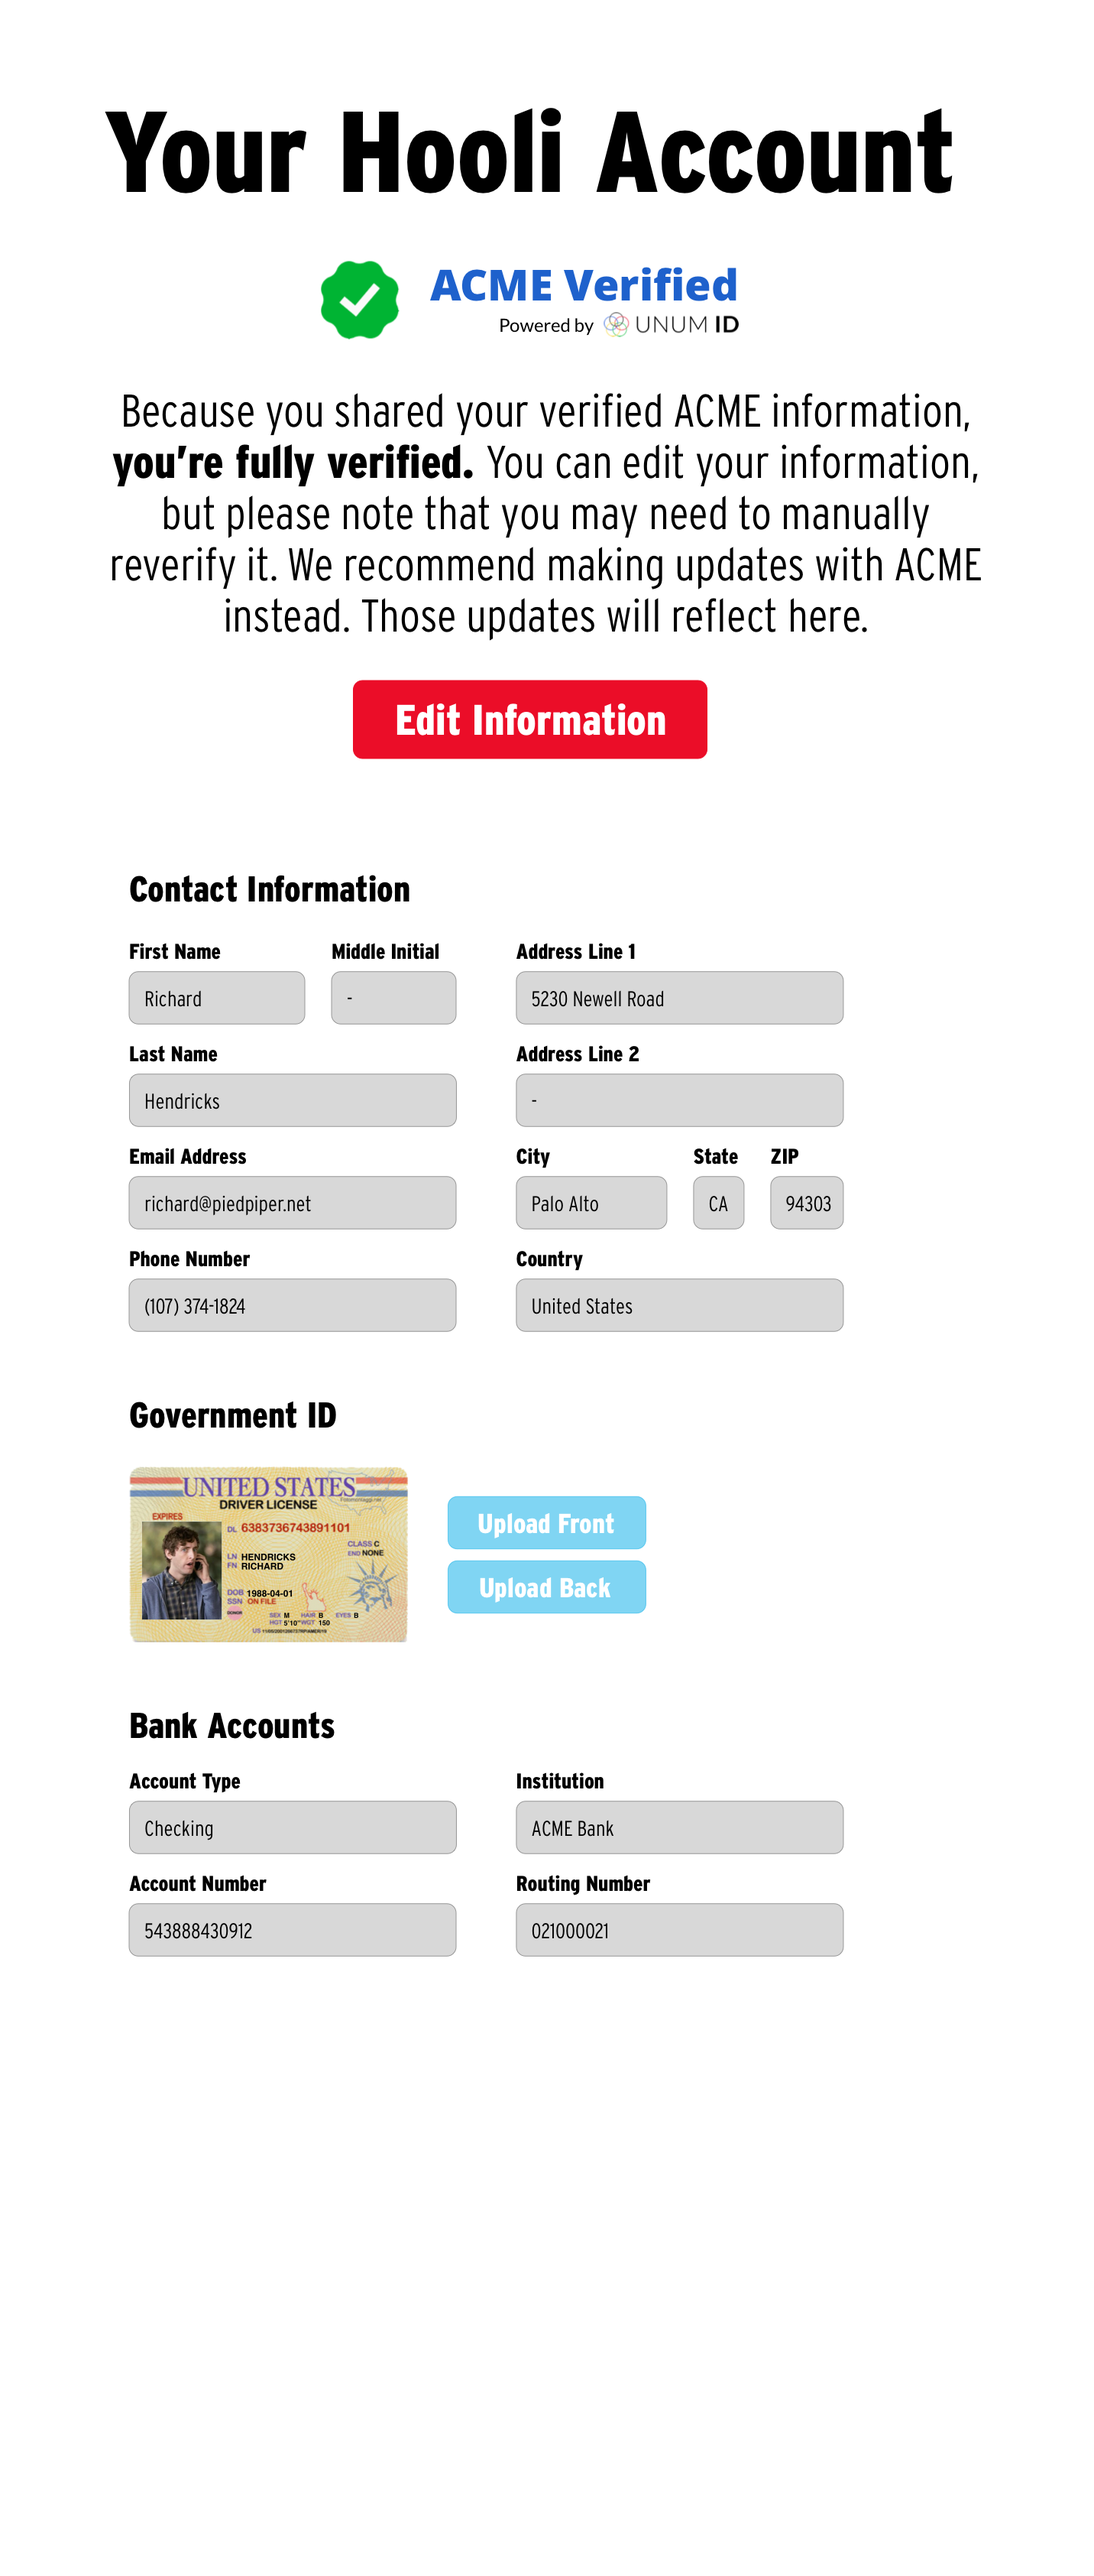
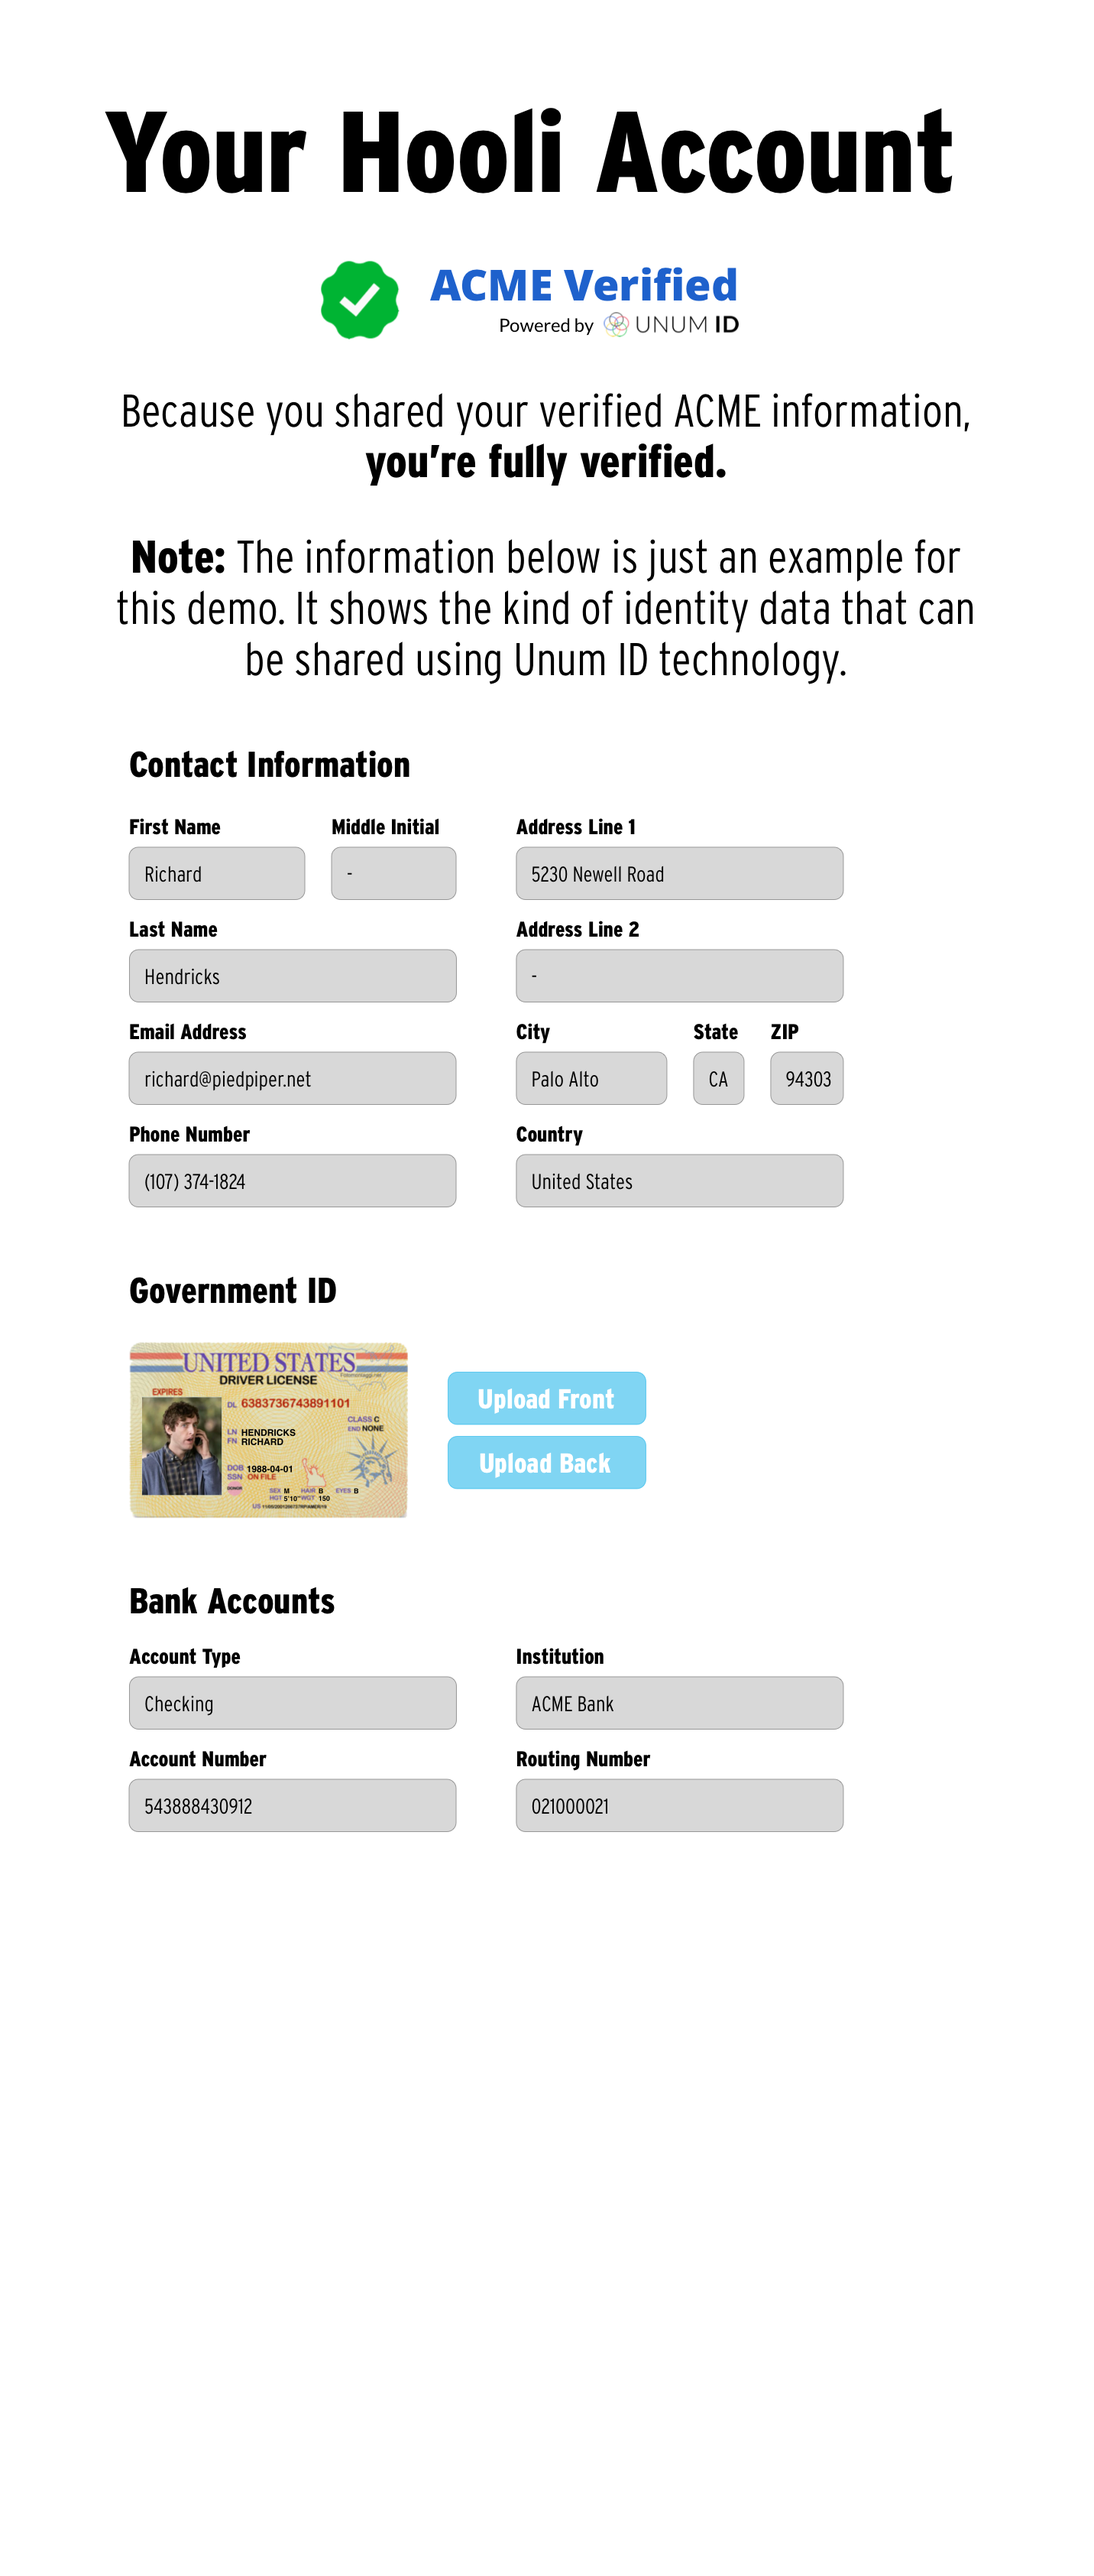
use first name from credential (#8)
* [circleci, Dockerfile] use npm instead of yarn

* [Authenticated] use updated images and display firstName from credential

* [PrimaryHeader] use first name from credential in header

Changed region(s): [[0.0922, 0.1558, 0.8911, 0.7792]]

diff --git a/src/test/components/Header/PrimaryHeader.test.tsx b/src/test/components/Header/PrimaryHeader.test.tsx
@@ -3,26 +3,58 @@ import { MemoryRouter } from 'react-router-dom';
 import { Provider } from 'react-redux';
 import PrimaryHeader from '../../../components/Header/PrimaryHeader';
 import { store } from '../../../state';
+import { PresentationActionType } from '../../../state/actionTypes/presentation';
+import { dummyDemoAcceptedPresentationDto } from '../../mocks';
 
 describe('PrimaryHeader', () => {
   const component = <Provider store={store}><MemoryRouter><PrimaryHeader /></MemoryRouter></Provider>;
   it('renders a header with a classname of primary-header', () => {
+    store.dispatch({
+      type: PresentationActionType.PRESENTATION_SHARED_SUCCESS,
+      payload: dummyDemoAcceptedPresentationDto
+    });
     render(component);
     expect(screen.getByText('ACCOUNT').closest('header')).toHaveClass('primary-header');
   });
 
-  it('renders two links', () => {
+  it('renders a link to the account page', () => {
+    store.dispatch({
+      type: PresentationActionType.PRESENTATION_SHARED_SUCCESS,
+      payload: dummyDemoAcceptedPresentationDto
+    });
     render(component);
-    expect(screen.getByText('RICHARD HENDRICKS', { exact: false })).toBeInTheDocument();
-    expect(screen.getByText('ACCOUNT')).toBeInTheDocument();
+    const tab = screen.getByText('ACCOUNT');
+    expect(tab).toBeInTheDocument();
+    expect(tab).toHaveAttribute('href', '/account');
+  });
+
+  it('renders a link to the hello page with the user\'s first name from the credential', () => {
+    store.dispatch({
+      type: PresentationActionType.PRESENTATION_SHARED_SUCCESS,
+      payload: dummyDemoAcceptedPresentationDto
+    });
+
+    const { firstName } = JSON.parse(dummyDemoAcceptedPresentationDto.presentation.verifiableCredential[0].credentialSubject);
+    render(component);
+    const tab = screen.getByText(firstName.toUpperCase(), { exact: false });
+    expect(tab).toBeInTheDocument();
+    expect(tab.closest('a')).toHaveAttribute('href', '/hello');
   });
 
   it('renders a Logout tab', () => {
+    store.dispatch({
+      type: PresentationActionType.PRESENTATION_SHARED_SUCCESS,
+      payload: dummyDemoAcceptedPresentationDto
+    });
     render(component);
     expect(screen.getByText('LOGOUT')).toBeInTheDocument();
   });
 
   it('renders a right side tab', () => {
+    store.dispatch({
+      type: PresentationActionType.PRESENTATION_SHARED_SUCCESS,
+      payload: dummyDemoAcceptedPresentationDto
+    });
     render(component);
     expect(screen.getByText('Making the world a better place.')).toBeInTheDocument();
   });

diff --git a/src/components/Header/PrimaryHeader.tsx b/src/components/Header/PrimaryHeader.tsx
@@ -1,4 +1,5 @@
 import { FC } from 'react';
+import { Redirect } from 'react-router-dom';
 
 import Header from './Header';
 import HeaderCenter from './HeaderCenter';
@@ -14,15 +15,35 @@ import './PrimaryHeader.css';
 import PrimaryColor from '../Layout/PrimaryColor';
 import { FontAwesomeIcon } from '@fortawesome/react-fontawesome';
 import { faUser } from '@fortawesome/free-solid-svg-icons';
+import { useTypedSelector } from '../../hooks/useTypedSelector';
+import { isDemoPresentationDto } from '../../typeguards';
 
 const PrimaryHeader: FC = () => {
+  const { sharedPresentation } = useTypedSelector(state => state.presentation);
+
+  if (!sharedPresentation) {
+    return <Redirect to='/' />;
+  }
+
+  const credentials = isDemoPresentationDto(sharedPresentation)
+    ? sharedPresentation.presentation.verifiableCredential
+    : sharedPresentation.presentation.verifiableCredentials;
+
+  if (!credentials) {
+    return <Redirect to='/' />;
+  }
+
+  const credentialSubject = credentials[0].credentialSubject;
+
+  const firstName = typeof credentialSubject === 'string' ? JSON.parse(credentialSubject).firstName : credentialSubject.firstName;
+
   return (
     <Header className='primary-header'>
       <HeaderLeft>
         <LinkTab to='/hello'>
           <PrimaryColor>
-            <FontAwesomeIcon icon={faUser} size='lg' />&nbsp;
-            RICHARD HENDRICKS
+            <FontAwesomeIcon icon={faUser} size='lg' />&nbsp;&nbsp;
+            {firstName.toUpperCase()}
           </PrimaryColor>
         </LinkTab>
         <LinkTab to='/account'>ACCOUNT</LinkTab>

diff --git a/src/components/Authenticated.tsx b/src/components/Authenticated.tsx
@@ -8,6 +8,7 @@ import mobileImage from '../assets/hello-mobile.png';
 import { useIsMobile } from '../hooks/useIsMobile';
 
 import './Authenticated.css';
+import { isDemoPresentationDto } from '../typeguards';
 
 const Authenticated: FC = () => {
   const { sharedPresentation } = useTypedSelector(state => state.presentation);
@@ -17,11 +18,24 @@ const Authenticated: FC = () => {
     return <Redirect to='/' />;
   }
 
+  const credentials = isDemoPresentationDto(sharedPresentation)
+    ? sharedPresentation.presentation.verifiableCredential
+    : sharedPresentation.presentation.verifiableCredentials;
+
+  if (!credentials) {
+    return <Redirect to='/' />;
+  }
+
+  const credentialSubject = credentials[0].credentialSubject;
+
+  const firstName = typeof credentialSubject === 'string' ? JSON.parse(credentialSubject).firstName : credentialSubject.firstName;
+
   const image = isMobile ? mobileImage : desktopImage;
   return (
     <div className='authenticated'>
       <MainContent>
         {/* customize this with branding for the specific demo, better styling/layout/content, etc */}
+        <div className='hello'>Hello, {firstName}! <span role='img' aria-label='wave'>👋</span></div>
         <img src={image} alt='Hello, Richard!' />
       </MainContent>
     </div>

diff --git a/src/test/components/Authenticated.test.tsx b/src/test/components/Authenticated.test.tsx
@@ -5,7 +5,7 @@ import { MemoryRouter } from 'react-router-dom';
 import Authenticated from '../../components/Authenticated';
 import { store } from '../../state';
 import { PresentationActionType } from '../../state/actionTypes/presentation';
-import { dummyDeprecatedDemoPresentationDto } from '../mocks';
+import { dummyDemoAcceptedPresentationDto, dummyDeprecatedDemoPresentationDto } from '../mocks';
 
 describe('Authenticated component', () => {
   const component = (
@@ -29,5 +29,17 @@ describe('Authenticated component', () => {
 
     render(component);
     expect(screen.getByAltText('Hello, Richard!')).toBeInTheDocument();
+  });
+
+  it('displays the user\'s first name from the credential', () => {
+    store.dispatch({
+      type: PresentationActionType.PRESENTATION_SHARED_SUCCESS,
+      payload: dummyDemoAcceptedPresentationDto
+    });
+
+    const { firstName } = JSON.parse(dummyDemoAcceptedPresentationDto.presentation.verifiableCredential[0].credentialSubject);
+
+    render(component);
+    expect(screen.getByText(`Hello, ${firstName}!`)).toBeInTheDocument();
   });
 });

diff --git a/src/test/mocks.ts b/src/test/mocks.ts
@@ -224,7 +224,7 @@ export const dummyAcceptedPresentation: AcceptedPresentation = {
         id: 'https://api.dev-unumid.org//credentialStatus/808befa8-cb80-41f2-a092-3a2542bde1a0',
         type: 'CredentialStatus'
       },
-      credentialSubject: '{"id":"did:unum:ab8cc239-c146-4d9d-8332-ac8182f94696","isAuthorized":true,"userUuid":"eef4db1a-1310-4a60-9ef8-9ee5fc32fe8a","userEmail":"jacob@unum.id"}',
+      credentialSubject: '{"firstName": "Gizmo" }',
       issuanceDate: new Date('2021-03-11T01:57:20.185Z'),
       proof: {
         created: '2021-03-11T01:57:20.187Z',

diff --git a/src/components/Authenticated.css b/src/components/Authenticated.css
@@ -1,3 +1,22 @@
 .authenticated {
   background-color: var(--secondary-background-color);
 }
+
+.authenticated .hello {
+  font-size: 80px;
+  font-weight: 900;
+  text-align: left;
+  padding-left: 70px;
+  margin-top: 50px;
+  margin-bottom: 15px
+}
+
+@media screen and (max-width: 1200px) {
+  .authenticated .hello {
+    text-align: center;
+    padding-left: 0;
+    font-size: 40px;
+    margin-top: 30px;
+    margin-bottom: 10px;
+  }
+}
